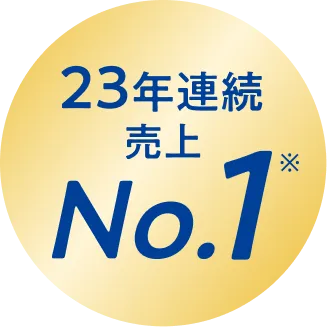
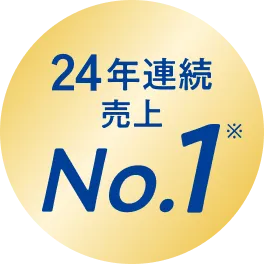
文言、画像差し替え

diff --git a/index.html b/index.html
@@ -263,7 +263,7 @@
                   <p class="l-service-intro__achievement-label">ダイレクト<br class="no-sp">自動車保険</p>
                   <p class="l-service-intro__achievement-text"><img src="images/service-intro-text.webp" width="" height="" alt="23年連続売上No.1※"></p>
                 </div>
-                <p class="l-service-intro__note">※自動車保険を主にダイレクト販売している損害保険会社の2024年度までの自動車保険料収入より(ソニー損保調べ)。</p>
+                <p class="l-service-intro__note">※自動車保険を主にダイレクト販売している損害保険会社の2025年度までの自動車保険料収入より(ソニー損保調べ)。</p>
               </div>
             </div>
 
@@ -1026,12 +1026,12 @@
                 </summary>
                 <div class="l-other__content">
                   <div class="l-other__features">
-                    <p class="l-other__feature">ダイレクト自動車保険23年連続売上No.1<sup>※1</sup></p>
+                    <p class="l-other__feature">ダイレクト自動車保険24年連続売上No.1<sup>※1</sup></p>
                     <p class="l-other__feature">セコム事故現場かけつけサービスで万一の際も安心<sup>※2</sup></p>
                     <p class="l-other__feature">【1年契約の場合】新規ネット申し込みで最大15,000円割引<sup>※3</sup></p>
                   </div>
                   <p class="l-other__disclaimer">
-                    ※1 自動車保険を主にダイレクトで販売している損害保険会社の2024年度までの自動車保険料収入より(ソニー損保調べ)
+                    ※1 自動車保険を主にダイレクトで販売している損害保険会社の2025年度までの自動車保険料収入より(ソニー損保調べ)
                     <br>
                     ※2 お客さまからソニー損保への事故連絡時に、セコム出動のご要請を受けた場合には、その要請に基づきセコムがかけつけます。事故現場が高速道路上･山間部･離島など一部のエリアではサービス対象外です。また、示談交渉は行いません
                     <br>
